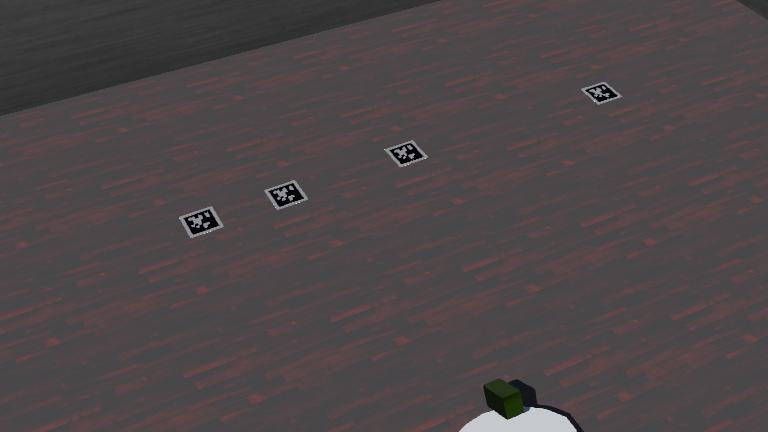
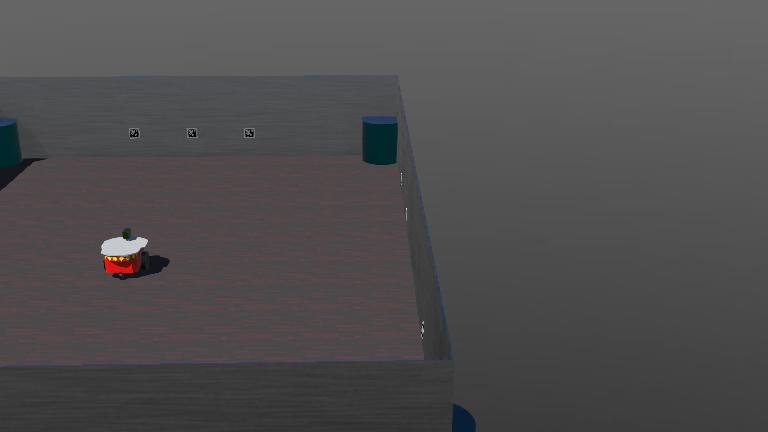
added KL divergence

diff --git a/controllers/my_first_controller0/my_first_controller0.py b/controllers/my_first_controller0/my_first_controller0.py
@@ -1,9 +1,9 @@
 from controller import Robot
 from source.Odometry import Odometry
 import numpy as np
-import cv2
+import matplotlib as plt
 from source.ApriltagDetector import AprilTagDetector
-from source.EKFSlam import EKF_SLAM
+from source.EKFSlam_KL  import EKF_SLAM
 
 np.set_printoptions(suppress=True, precision=4)
 # Constants
@@ -116,6 +116,9 @@ def run():
 	# ekf_slam.set_time_step(0.01)  # 10ms time step
 
 	# robot.step(ctx['time_step'])
+	# enc_vals = [ctx['left_encoder'].getValue(), ctx['right_encoder'].getValue()]		
+	# pose, u = odometry.update_from_encoders(enc_vals[0], enc_vals[1])
+
 	
 	# Initialize AprilTag detector
 	if ctx['camera']:
@@ -148,12 +151,15 @@ def run():
 		# FIXME - ROBOT POSE GETS WRONG ESTIMATE
 		robot_pose, landmarks = ekf_slam.update(u, r_phi_dict) #TODO: Why does this output only one landmark?
 		print(f"robot pose ekf{robot_pose}")
-		print(f"landmarks: \n{landmarks}")
-		print("-"*20)
-
-		
-		
-		
+		try:
+			print(f"landmarks: {len(landmarks)}\n{landmarks}")
+			error = (pose - robot_pose)/robot_pose *100
+			print(error)
+			
+			print("-"*20)
+			ekf_slam.plot_landmarks(landmarks, ctx['position'])
+		except:
+			print("No landmarks detected")
 		#SECTION -  If u want to see what the robot sees
 		# image_array = np.frombuffer(image, np.uint8)
 		# rgb_image = image_array.reshape((ctx['camera'].getHeight(), ctx['camera'].getWidth(), 4))